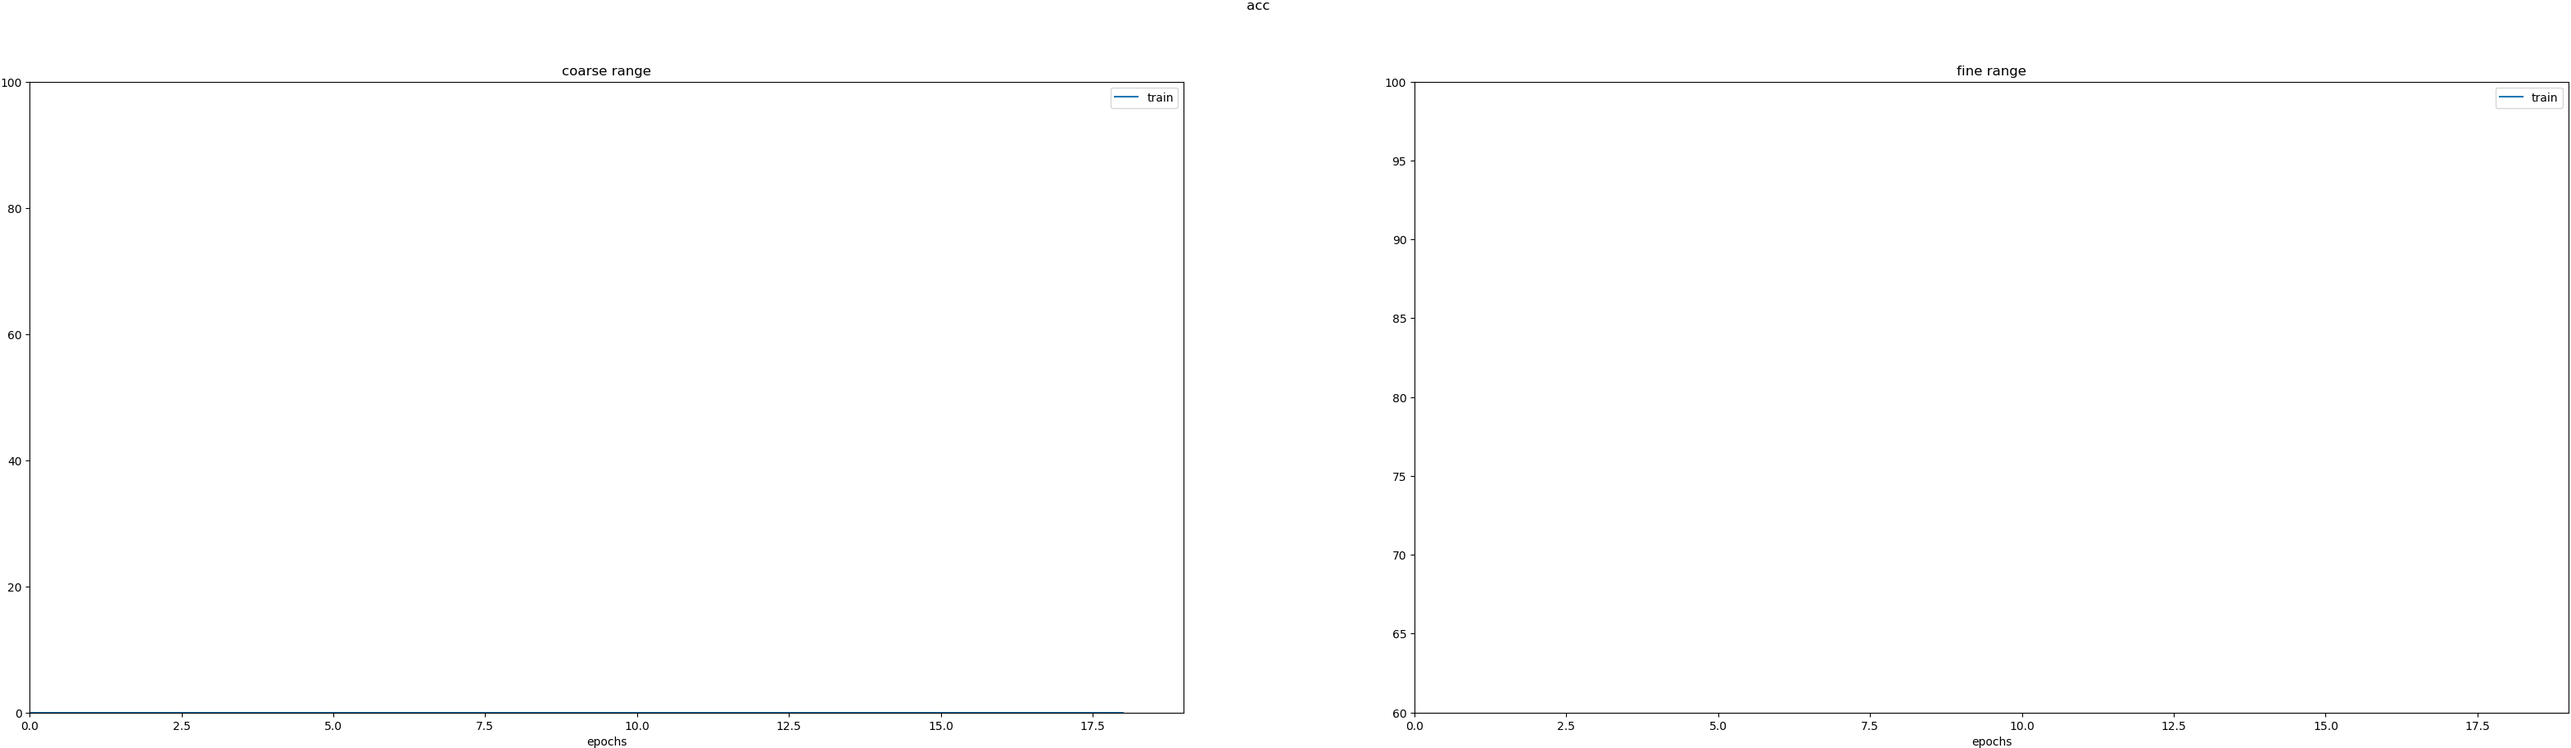
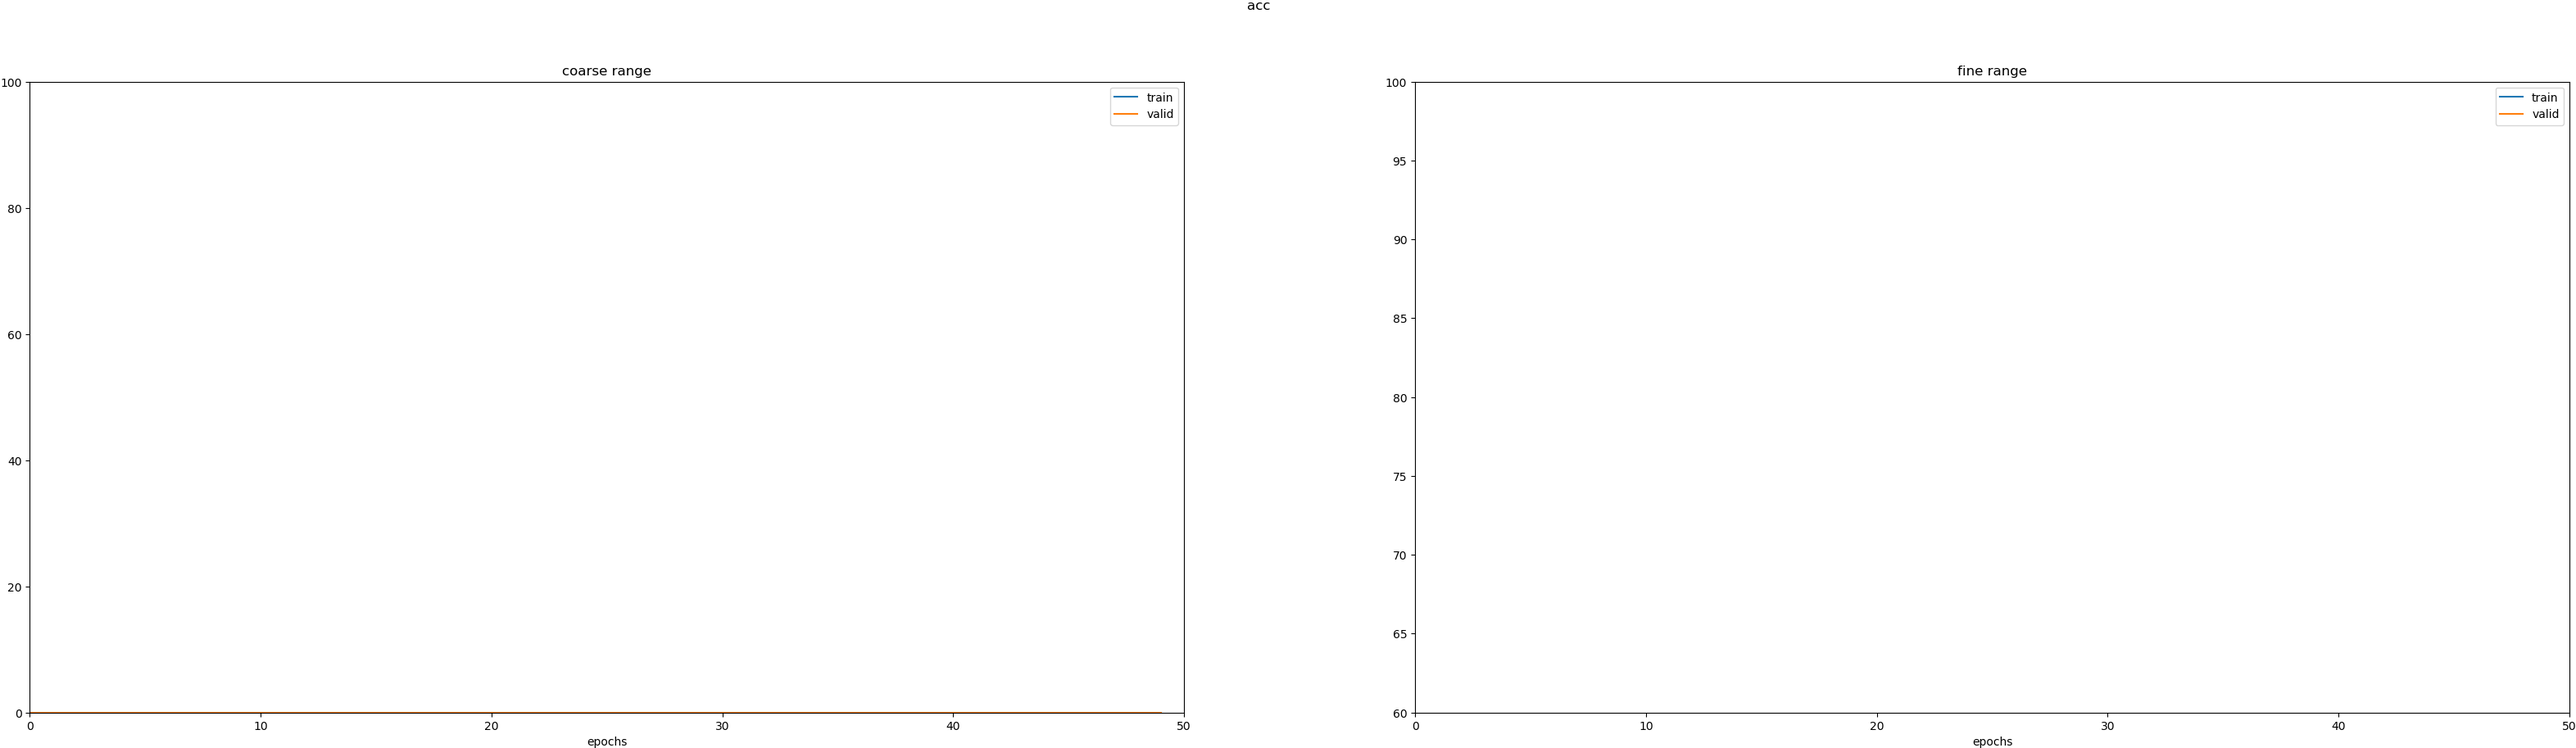
update

diff --git a/preprocess/preprocess.py b/preprocess/preprocess.py
@@ -6,7 +6,7 @@ from itertools import chain
 import os
 
 
-def pre_process(filename="data/lic/train+test.json"):
+def pre_process(filename="data/lic/train+test.json", ground_filter=True):
     if filename == "data/lic/train+test.json":
         with open("data/lic/knowledge.pkl", "rb") as f:
             kg_word = pkl.load(f)
@@ -14,7 +14,7 @@ def pre_process(filename="data/lic/train+test.json"):
         #     nil_word = f.read().strip().split(" ")
         with open(filename, "rb") as f:
             dict = json.loads(f.read())
-            train_num = int(3 * len(dict["train"]) / 4)
+            train_num = int(len(dict["train"]) / 3)
             res_lis = list()
             res_cnt = 0
             for tri in dict["train"]:
@@ -28,17 +28,23 @@ def pre_process(filename="data/lic/train+test.json"):
                         if res_cnt >= train_num:
                             tmp3 = dict["train"][tri]["conversation"][2].strip().split(" ")
                         else:
-                            tmp3 = list(
-                                filter(lambda t: t in kg_word,
-                                       dict["train"][tri]["conversation"][2].strip().split(" ")))
+                            if ground_filter:
+                                tmp3 = list(
+                                    filter(lambda t: t in kg_word,
+                                           dict["train"][tri]["conversation"][2].strip().split(" ")))
+                            else:
+                                tmp3 = dict["train"][tri]["conversation"][2].strip().split(" ")
                     else:
                         tmp2 = dict["train"][tri]["conversation"][2 * cnt + 1].strip().split(" ")
                         if res_cnt >= train_num:
                             tmp3 = dict["train"][tri]["conversation"][2 * cnt + 2].strip().split(" ")
                         else:
-                            tmp3 = list(
-                                filter(lambda t: t in kg_word,
-                                       dict["train"][tri]["conversation"][2 * cnt + 2].strip().split(" ")))
+                            if ground_filter:
+                                tmp3 = list(
+                                    filter(lambda t: t in kg_word,
+                                           dict["train"][tri]["conversation"][2 * cnt + 2].strip().split(" ")))
+                            else:
+                                tmp3 = dict["train"][tri]["conversation"][2 * cnt + 2].strip().split(" ")
                     if len(tmp3) == 0:
                         continue
                     res_lis.append([])
@@ -48,7 +54,7 @@ def pre_process(filename="data/lic/train+test.json"):
                     res_lis[res_cnt][1] = tmp2
                     res_lis[res_cnt][2] = tmp3
                     res_cnt += 1
-        return res_lis[:train_num], res_lis[train_num:]
+        return list(res_lis[:train_num]), list(res_lis[train_num:2 * train_num]), list(res_lis[2 * train_num:])
     elif filename == "data/lic/train_part.json":
         with open("data/lic/toy_knowledge.pkl", "rb") as f:
             kg_word = pkl.load(f)
@@ -71,16 +77,23 @@ def pre_process(filename="data/lic/train+test.json"):
                     if cnt == 0:
                         tr_lis[tr_cnt][1] = dict["train"][tri]["conversation"][0].strip().split(" ")\
                                                + dict["train"][tri]["conversation"][1].strip().split(" ")
-                        tr_lis[tr_cnt][2] = list(
-                            filter(lambda t: t in kg_word,
-                                   dict["train"][tri]["conversation"][2].strip().split(" ")))
+                        if ground_filter:
+                            tr_lis[tr_cnt][2] = list(
+                                filter(lambda t: t in kg_word,
+                                       dict["train"][tri]["conversation"][2].strip().split(" ")))
+                        else:
+                            tr_lis[tr_cnt][2] = dict["train"][tri]["conversation"][2].strip().split(" ")
 
                     else:
                         tr_lis[tr_cnt][1] = dict["train"][tri]["conversation"][2 * cnt + 1].strip().split(" ")
-                        tr_lis[tr_cnt][2] = list(
-                            filter(lambda t: t in kg_word,
-                                   dict["train"][tri]["conversation"][2 * cnt + 2].strip().split(" ")))
+                        if ground_filter:
+                            tr_lis[tr_cnt][2] = list(
+                                filter(lambda t: t in kg_word,
+                                       dict["train"][tri]["conversation"][2 * cnt + 2].strip().split(" ")))
+                        else:
+                            tr_lis[tr_cnt][2] = dict["train"][tri]["conversation"][2 * cnt + 2].strip().split(" ")
                     tr_cnt += 1
+            test_num = int(len(dict["test"]) / 2)
             for tei in dict["test"]:
                 kg = get_knowledge_lis(dict["test"][tei]["knowledge"])
                 cur_len = 1 + (len(dict["test"][tei]["conversation"]) - 3) // 2
@@ -97,7 +110,7 @@ def pre_process(filename="data/lic/train+test.json"):
                         te_lis[te_cnt][1] = dict["test"][tei]["conversation"][2 * cnt + 1].strip().split(" ")
                         te_lis[te_cnt][2] = dict["test"][tei]["conversation"][2 * cnt + 2].strip().split(" ")
                     te_cnt += 1
-        return tr_lis, te_lis
+        return tr_lis, list(te_lis[:test_num]), list(te_lis[test_num:])
     else:
         assert False, "lic only has 2 datasets! pick one!"
 

diff --git a/data/lic/toyDataset.py b/data/lic/toyDataset.py
@@ -10,12 +10,12 @@ import os
 
 
 class toyDataset(data.Dataset):
-    def __init__(self, dataset_dir, memory_size=50, train=True):
+    def __init__(self, dataset_dir, memory_size=50, mode="train"):
         data_path = os.path.join(dataset_dir, "train_part.json")
         dict_path = os.path.join(dataset_dir, "toylic_word")
         extract_knowledge(data_path)
-        train_data, test_data = pre_process(data_path)
-        data = train_data + test_data
+        train_data, test_data, val_data = pre_process(data_path, ground_filter=False)
+        data = train_data + test_data + val_data
 
         if not os.path.exists(dict_path):
             # self.vocab = set()
@@ -37,11 +37,22 @@ class toyDataset(data.Dataset):
             with codecs.open("data/lic/toylic_word", "r", "utf-8") as f:
                 self.vocab = f.read().strip().split(" ")
 
+        self.unk_token = "<unk>"
+        self.pad_token = "<pad>"
+        self.sos_token = "<sos>"
+        self.eos_token = "<eos>"
+        self.unk_id = 0
+        self.pad_id = 1
+        self.sos_id = 2
+        self.eos_id = 3
+
         # word_idx = defaultdict(int)
         word_idx = {}
-        word_idx["<pad>"] = 1
-        word_idx["<unk>"] = 0
-        for i, word in enumerate(self.vocab, 2):
+        word_idx[self.unk_token] = 0
+        word_idx[self.pad_token] = 1
+        word_idx[self.sos_token] = 2
+        word_idx[self.eos_token] = 3
+        for i, word in enumerate(self.vocab, 4):
             word_idx[word] = i
 
         # <pad>:0, <unk>:1
@@ -57,20 +68,26 @@ class toyDataset(data.Dataset):
         #     word_idx["time{}".format(i+1)] = "time{}".format(i+1)
 
         self.num_vocab = len(word_idx)
-        self.sentence_size = max(self.query_size, self.sentence_size) # for the position
+        self.sentence_size = max(self.query_size, self.sentence_size)   # for the position
         # self.sentence_size += 1  # +1 for time words
+        self.sentence_size += 2     # +2 for <sos>, <eos>
         self.word_idx = word_idx
         self.idx_word = dict(zip(self.word_idx.values(), self.word_idx.keys()))
-        self.idx_word[1] = "<pad>"
-        self.idx_word[0] = "<unk>"
+        self.idx_word[0] = self.unk_token
+        self.idx_word[1] = self.pad_token
+        self.idx_word[2] = self.sos_token
+        self.idx_word[3] = self.eos_token
 
         self.mean_story_size = int(np.mean([len(s) for s, _, _ in data]))
 
-        if train:
+        if mode == "train":
             story, query, answer = vectorize_data(train_data, self.word_idx,
                 self.sentence_size, self.memory_size)
-        else:
+        elif mode == "test":
             story, query, answer = vectorize_data(test_data, self.word_idx,
+                self.sentence_size, self.memory_size)
+        elif mode == "valid":
+            story, query, answer = vectorize_data(val_data, self.word_idx,
                 self.sentence_size, self.memory_size)
 
         self.data_story = torch.LongTensor(story)
@@ -88,5 +105,6 @@ class toyDataset(data.Dataset):
 
 
 dataset_dir = "data/lic/"
-tr_dataset = toyDataset(dataset_dir, train=True)
-te_dataset = toyDataset(dataset_dir, train=False)
+tr_dataset = toyDataset(dataset_dir, mode="train")
+te_dataset = toyDataset(dataset_dir, mode="test")
+val_dataset = toyDataset(dataset_dir, mode="valid")

diff --git a/data/lic/licDataset.py b/data/lic/licDataset.py
@@ -10,12 +10,12 @@ import os
 
 
 class licDataset(data.Dataset):
-    def __init__(self, dataset_dir, memory_size=50, train=True):
+    def __init__(self, dataset_dir, memory_size=50, mode="train"):
         data_path = os.path.join(dataset_dir, "train+test.json")
         dict_path = os.path.join(dataset_dir, "lic_word")
         extract_knowledge(data_path)
-        train_data, test_data = pre_process(data_path)
-        data = train_data + test_data
+        train_data, test_data, val_data = pre_process(data_path, ground_filter=False)
+        data = train_data + test_data + val_data
 
         if not os.path.exists(dict_path):
             # self.vocab = set()
@@ -37,11 +37,22 @@ class licDataset(data.Dataset):
             with codecs.open("data/lic/lic_word", "r", "utf-8") as f:
                 self.vocab = f.read().strip().split(" ")
 
+        self.unk_token = "<unk>"
+        self.pad_token = "<pad>"
+        self.sos_token = "<sos>"
+        self.eos_token = "<eos>"
+        self.unk_id = 0
+        self.pad_id = 1
+        self.sos_id = 2
+        self.eos_id = 3
+
         # word_idx = defaultdict(int)
         word_idx = {}
-        word_idx["<pad>"] = 1
-        word_idx["<unk>"] = 0
-        for i, word in enumerate(self.vocab, 2):
+        word_idx[self.unk_token] = 0
+        word_idx[self.pad_token] = 1
+        word_idx[self.sos_token] = 2
+        word_idx[self.eos_token] = 3
+        for i, word in enumerate(self.vocab, 4):
             word_idx[word] = i
 
         # <pad>:0, <unk>:1
@@ -59,19 +70,24 @@ class licDataset(data.Dataset):
         self.num_vocab = len(word_idx)
         self.sentence_size = max(self.query_size, self.sentence_size)   # for the position
         # self.sentence_size += 1  # +1 for time words
+        self.sentence_size += 2     # +2 for <sos>, <eos>
         self.word_idx = word_idx
         self.idx_word = dict(zip(self.word_idx.values(), self.word_idx.keys()))
-        self.idx_word[0] = "<unk>"
-        self.idx_word[1] = "<pad>"
-
+        self.idx_word[0] = self.unk_token
+        self.idx_word[1] = self.pad_token
+        self.idx_word[2] = self.sos_token
+        self.idx_word[3] = self.eos_token
 
         self.mean_story_size = int(np.mean([len(s) for s, _, _ in data]))
 
-        if train:
+        if mode == "train":
             story, query, answer = vectorize_data(train_data, self.word_idx,
                 self.sentence_size, self.memory_size)
-        else:
+        elif mode == "test":
             story, query, answer = vectorize_data(test_data, self.word_idx,
+                self.sentence_size, self.memory_size)
+        elif mode == "valid":
+            story, query, answer = vectorize_data(val_data, self.word_idx,
                 self.sentence_size, self.memory_size)
 
         self.data_story = torch.LongTensor(story)
@@ -89,5 +105,6 @@ class licDataset(data.Dataset):
 
 
 dataset_dir = "data/lic/"
-tr_dataset = licDataset(dataset_dir, train=True)
-te_dataset = licDataset(dataset_dir, train=False)
+tr_dataset = licDataset(dataset_dir, mode="train")
+te_dataset = licDataset(dataset_dir, mode="test")
+val_dataset = licDataset(dataset_dir, mode="valid")

diff --git a/models/trainer.py b/models/trainer.py
@@ -8,7 +8,7 @@ import numpy as np
 
 import sys
 sys.path.append('./')
-from utils.misc_utils import get_by_dotted_path, add_record, get_records, log_record_dict
+from utils.misc_utils import get_records, log_record_dict
 from utils.plot_utils import create_curve_plots
 from models.rule import RuleExtractor
 
@@ -129,7 +129,7 @@ class Trainer:
                     self.logger.info('    Best validation loss improved to {:.03f}'.format(best_valid_loss))
                     self.save_net(os.path.join(self.config['outdir'], 'best_valid_params.ptp'))
 
-                if best_valid_loss < np.min(get_records('validation.loss', self.global_records)[-max_patience:]):
+                if best_valid_loss < np.min(get_records('valid.loss', self.global_records)[-max_patience:]):
                     early_break = True
 
             # Produce plots

diff --git a/config/cfg.py b/config/cfg.py
@@ -45,7 +45,7 @@ config = {
     'train': {
         'stop_crit':{
             'max_patience': 10,                     # patience for early stopping (int, None)
-            'max_epoch': 20                         # maximum epochs to run for (int)
+            'max_epoch': 50                         # maximum epochs to run for (int)
         },        
         'batch_size': 1,
         'debug_samples': [3, 37, 54],               # sample ids to debug with (None, int, list)
